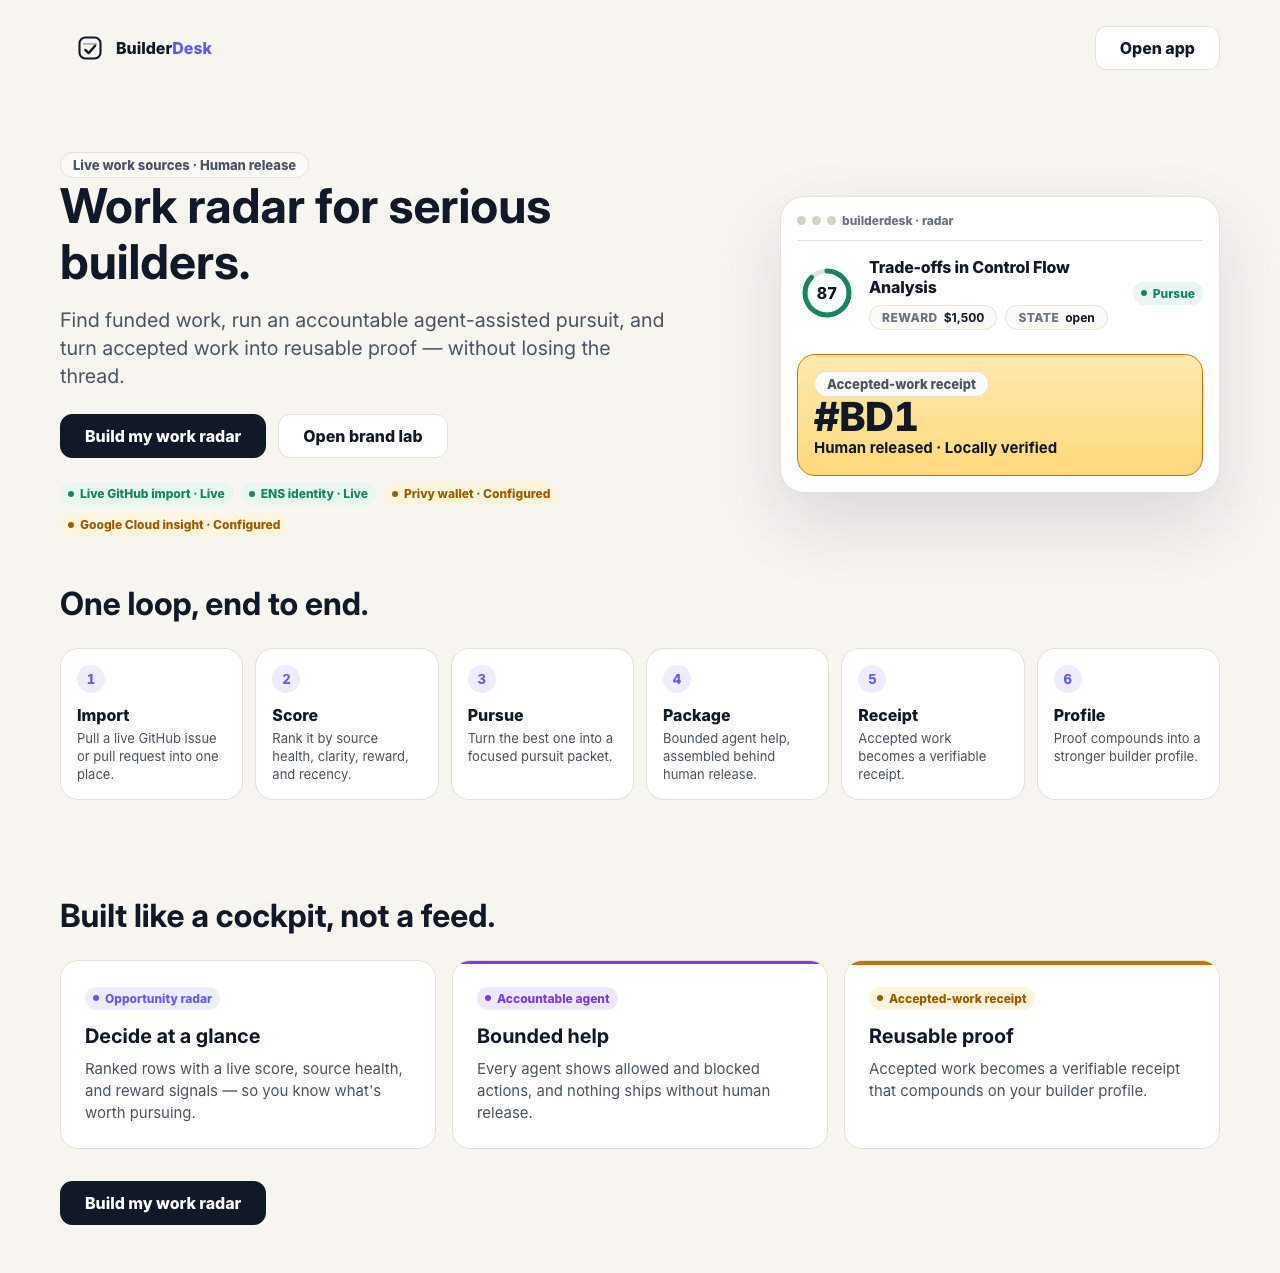
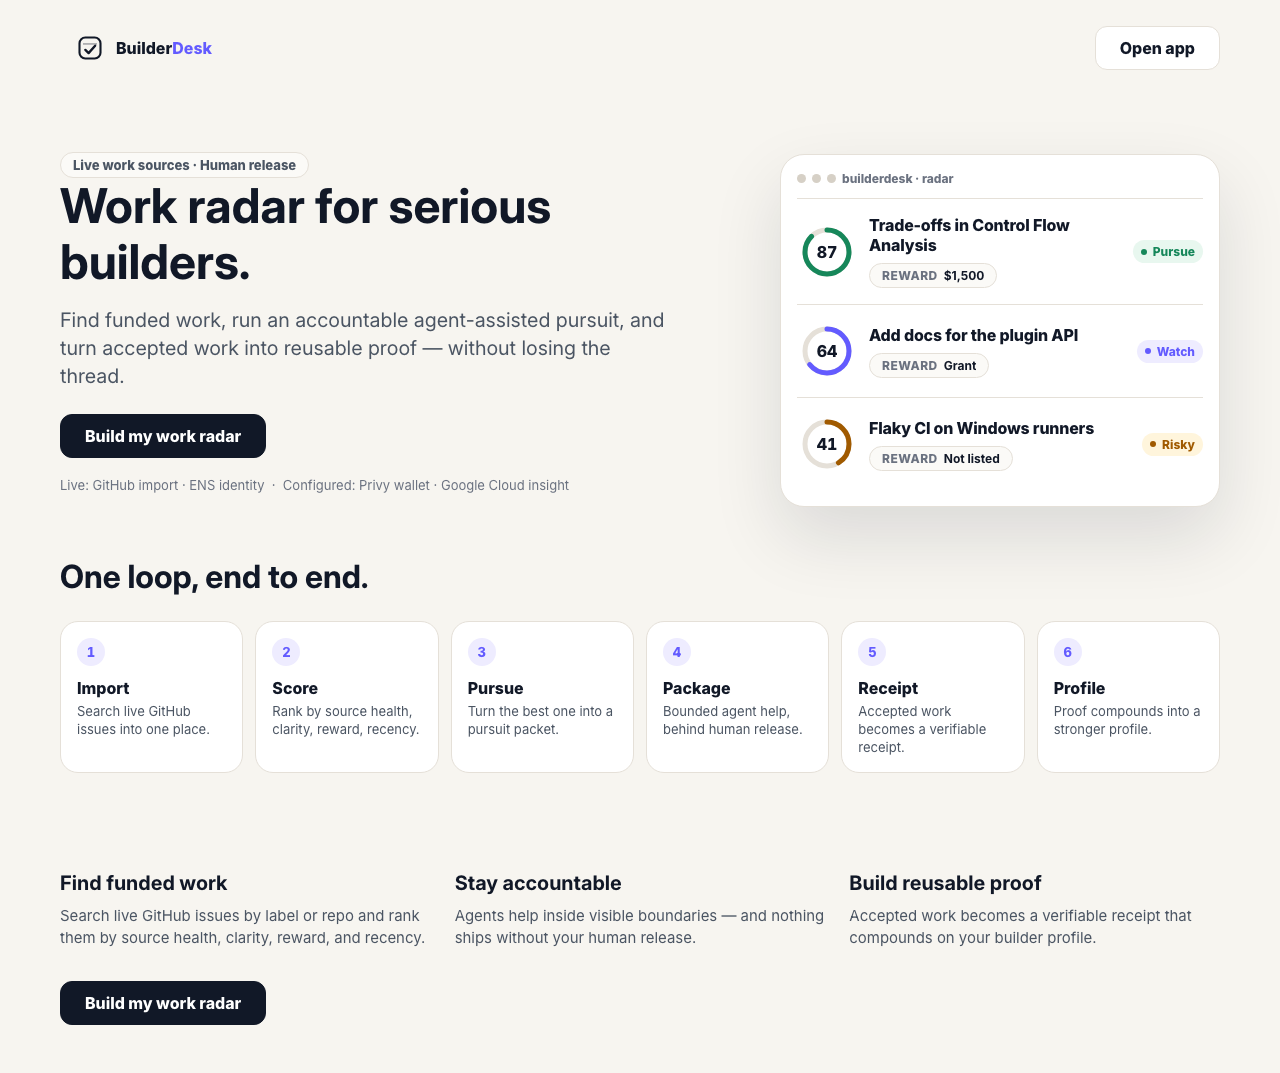
Make the landing a product pitch, distinct from the brand lab
Remove the internal brand-lab link from the welcome screen. Replace the
component-gallery-style surface cards and badge strip (which made the
landing read like the brand lab) with a framed populated-radar preview,
a subtle capability line, and plain benefit copy. Single clear CTA.

Verified: build, lint, test.

diff --git a/src/screens/Landing.tsx b/src/screens/Landing.tsx
@@ -2,20 +2,25 @@ import { Badge, Button, PublicShell } from '../components'
 import { ScoreMeter } from '../ui/product'
 import { navigate } from '../router'
 
-const loop: Array<[string, string]> = [
-  ['Import', 'Pull a live GitHub issue or pull request into one place.'],
-  ['Score', 'Rank it by source health, clarity, reward, and recency.'],
-  ['Pursue', 'Turn the best one into a focused pursuit packet.'],
-  ['Package', 'Bounded agent help, assembled behind human release.'],
-  ['Receipt', 'Accepted work becomes a verifiable receipt.'],
-  ['Profile', 'Proof compounds into a stronger builder profile.'],
+const previewRows: Array<{ score: number; tone: string; band: string; title: string; reward: string }> = [
+  { score: 87, tone: 'good', band: 'Pursue', title: 'Trade-offs in Control Flow Analysis', reward: '$1,500' },
+  { score: 64, tone: 'info', band: 'Watch', title: 'Add docs for the plugin API', reward: 'Grant' },
+  { score: 41, tone: 'warn', band: 'Risky', title: 'Flaky CI on Windows runners', reward: 'Not listed' },
 ]
 
-const capabilities: Array<[string, string]> = [
-  ['Live GitHub import · Live', 'good'],
-  ['ENS identity · Live', 'good'],
-  ['Privy wallet · Configured', 'warn'],
-  ['Google Cloud insight · Configured', 'warn'],
+const loop: Array<[string, string]> = [
+  ['Import', 'Search live GitHub issues into one place.'],
+  ['Score', 'Rank by source health, clarity, reward, recency.'],
+  ['Pursue', 'Turn the best one into a pursuit packet.'],
+  ['Package', 'Bounded agent help, behind human release.'],
+  ['Receipt', 'Accepted work becomes a verifiable receipt.'],
+  ['Profile', 'Proof compounds into a stronger profile.'],
+]
+
+const benefits: Array<[string, string]> = [
+  ['Find funded work', 'Search live GitHub issues by label or repo and rank them by source health, clarity, reward, and recency.'],
+  ['Stay accountable', 'Agents help inside visible boundaries — and nothing ships without your human release.'],
+  ['Build reusable proof', 'Accepted work becomes a verifiable receipt that compounds on your builder profile.'],
 ]
 
 export function Landing() {
@@ -30,32 +35,25 @@ export function Landing() {
           </p>
           <div className="actions">
             <Button variant="primary" onClick={() => navigate('/onboarding')}>Build my work radar</Button>
-            <Button onClick={() => navigate('/brand-lab')}>Open brand lab</Button>
           </div>
-          <div className="cap-strip">
-            {capabilities.map(([label, tone]) => <Badge key={label} label={label} tone={tone} />)}
-          </div>
+          <p className="cap-line">Live: GitHub import · ENS identity &nbsp;·&nbsp; Configured: Privy wallet · Google Cloud insight</p>
         </div>
 
         <div className="hero-preview" aria-hidden="true">
           <div className="preview-card">
             <div className="preview-head"><span className="preview-dot" /><span className="preview-dot" /><span className="preview-dot" /> builderdesk · radar</div>
-            <div className="preview-row">
-              <ScoreMeter score={87} tone="good" />
-              <div className="preview-main">
-                <div className="preview-title">Trade-offs in Control Flow Analysis</div>
-                <div className="preview-chips">
-                  <span className="meta-chip"><span className="meta-chip-label">Reward</span><span className="meta-chip-value">$1,500</span></span>
-                  <span className="meta-chip"><span className="meta-chip-label">State</span><span className="meta-chip-value">open</span></span>
+            {previewRows.map((row) => (
+              <div className="preview-row" key={row.title}>
+                <ScoreMeter score={row.score} tone={row.tone} />
+                <div className="preview-main">
+                  <div className="preview-title">{row.title}</div>
+                  <div className="preview-chips">
+                    <span className="meta-chip"><span className="meta-chip-label">Reward</span><span className="meta-chip-value">{row.reward}</span></span>
+                  </div>
                 </div>
+                <Badge label={row.band} tone={row.tone} />
               </div>
-              <Badge label="Pursue" tone="good" />
-            </div>
-            <div className="preview-receipt">
-              <span className="eyebrow">Accepted-work receipt</span>
-              <div className="ticket-number tnum">#BD1</div>
-              <p>Human released · Locally verified</p>
-            </div>
+            ))}
           </div>
         </div>
       </section>
@@ -74,23 +72,13 @@ export function Landing() {
       </section>
 
       <section className="band">
-        <h2>Built like a cockpit, not a feed.</h2>
-        <div className="surface-grid">
-          <div className="surface-card">
-            <Badge label="Opportunity radar" tone="info" />
-            <h3>Decide at a glance</h3>
-            <p>Ranked rows with a live score, source health, and reward signals — so you know what's worth pursuing.</p>
-          </div>
-          <div className="surface-card agent-panel">
-            <Badge label="Accountable agent" tone="agent" />
-            <h3>Bounded help</h3>
-            <p>Every agent shows allowed and blocked actions, and nothing ships without human release.</p>
-          </div>
-          <div className="surface-card receipt-card">
-            <Badge label="Accepted-work receipt" tone="warn" />
-            <h3>Reusable proof</h3>
-            <p>Accepted work becomes a verifiable receipt that compounds on your builder profile.</p>
-          </div>
+        <div className="benefits">
+          {benefits.map(([title, body]) => (
+            <div className="benefit" key={title}>
+              <h3>{title}</h3>
+              <p>{body}</p>
+            </div>
+          ))}
         </div>
         <div className="band-cta">
           <Button variant="primary" onClick={() => navigate('/onboarding')}>Build my work radar</Button>

diff --git a/src/styles/landing.css b/src/styles/landing.css
@@ -11,14 +11,13 @@
   margin-top: var(--space5);
 }
 
-.cap-strip {
-  display: flex;
-  flex-wrap: wrap;
-  gap: var(--space2);
-  margin-top: var(--space5);
+.cap-line {
+  margin-top: var(--space4);
+  color: var(--ink-muted);
+  font-size: var(--small-size);
 }
 
-/* Hero product preview — a framed snapshot of the real cockpit. */
+/* Hero product preview — a framed snapshot of a populated radar. */
 .preview-card {
   padding: var(--space4);
   border: 1px solid var(--line);
@@ -53,6 +52,10 @@
   padding: var(--space4) 0;
 }
 
+.preview-row + .preview-row {
+  border-top: 1px solid var(--line);
+}
+
 .preview-title {
   font-weight: 800;
   letter-spacing: -0.01em;
@@ -63,24 +66,6 @@
   flex-wrap: wrap;
   gap: var(--space2);
   margin-top: var(--space2);
-}
-
-.preview-receipt {
-  margin-top: var(--space2);
-  padding: var(--space4);
-  border: 1px solid var(--receipt);
-  border-radius: var(--radius-lg);
-  background: linear-gradient(180deg, #ffe9b0, #ffd97a);
-}
-
-.preview-receipt p {
-  margin: 0;
-  color: var(--ink);
-  font-weight: 700;
-}
-
-.preview-receipt .ticket-number {
-  font-size: 40px;
 }
 
 /* Content bands */
@@ -130,26 +115,17 @@
   line-height: var(--small-line);
 }
 
-.surface-grid {
+.benefits {
   display: grid;
   grid-template-columns: repeat(3, 1fr);
-  gap: var(--space4);
+  gap: var(--space5);
 }
 
-.surface-card {
-  position: relative;
-  overflow: hidden;
-  padding: var(--space5);
-  border: 1px solid var(--line);
-  border-radius: var(--radius-lg);
-  background: var(--surface);
+.benefit h3 {
+  margin-bottom: var(--space2);
 }
 
-.surface-card h3 {
-  margin: var(--space3) 0 var(--space2);
-}
-
-.surface-card p {
+.benefit p {
   margin: 0;
 }
 
@@ -168,7 +144,7 @@
     grid-template-columns: repeat(2, 1fr);
   }
 
-  .surface-grid {
+  .benefits {
     grid-template-columns: 1fr;
   }
 }
